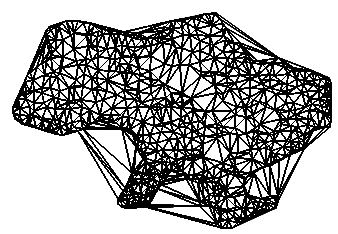
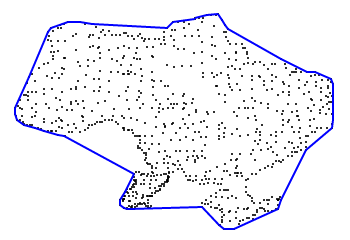
fix readme

diff --git a/debug/index.html b/debug/index.html
@@ -6,8 +6,8 @@
     <script src="../dist/hull.js"></script>
 </head>
 <body>
-    <canvas id="canv" width="400" height="600" style="border: 1px solid black; position: absolute; left: 0px; top: 0px;"></canvas>
-    <canvas id="canv1" width="400" height="600" style="border: 1px solid black; position: absolute; left: 0px; top: 0px;"></canvas>
+    <canvas id="canv" width="400" height="400" style="border: 1px solid black; position: absolute; left: 0px; top: 0px;"></canvas>
+    <canvas id="canv1" width="400" height="400" style="border: 1px solid black; position: absolute; left: 0px; top: 0px;"></canvas>
 
     <script>
     window.onload = function() {
@@ -23,85 +23,6 @@
             console.log('[' + e.offsetX + ', ' + e.offsetY + ']');
         }
 
-// vertices = [
-// [57, 270],
-// [122, 270],
-// [238, 269],
-// [235, 295],
-// [235, 330],
-// [195, 330],
-// [130, 311],
-// [75, 339],
-// [40, 326],
-// [40, 286]];
-
-// vertices = [
-//     [10, 116],
-//     [21, 131],
-//     [31, 54],
-//     [51, 43],
-//     [65, 58],
-//     [75, 95],
-//     [95, 70],
-//     [200, 122],
-//     [269, 130]
-// ];
-
-        // vertices = [
-        //     [5, 85],
-        //     [15, 90],
-        //     [30, 70],
-        //     [35, 130],
-        //     [40, 131],
-        //     [44, 66],
-        //     [48, 65],
-        //     [49, 38],
-        //     [50, 30],
-        //     [60, 61],
-        //     [110, 134],
-        //     [130, 132],
-        //     [140, 124],
-        //     [160, 154]];
-
-        // vertices = [
-        //     [10, 15],
-        //     [20, 20],
-        //     [10, 30],
-            
-        //     [40, 15],
-        //     [30, 20],
-        //     [40, 30],
-
-        //     // [60, 10],
-        //     // [50, 20],
-        //     // [60, 30]
-        // ];
-
-        // vertices = [
-        //     [26, 106],
-        //     [35, 110],
-        //     [45, 100],
-        //     [55, 129],
-        //     [65, 94],
-        //     [85, 120],
-        //     [95, 150],
-        //     [120, 192],
-        //     [150, 164]
-        // ];
-
-        // vertices = [
-        //     [140, 68],
-        //     [160, 32],
-        //     [175, 32],
-        //     [184, 30],
-        //     [230, 213],
-        //     [241, 223],
-        //     [242, 198],
-        //     [246, 220],
-        //     [248, 210],
-        //     [258, 210]     
-        // ];
-
         // draw all pixels
         ctx.fillStyle="black";
         for (var i = 0; i < vertices.length; i++) {
@@ -112,11 +33,9 @@
         }
 
         // get and draw hull  
-        console.time('hull');
-        var pxs = hull(vertices, 10);
-        console.timeEnd('hull');
+        var pxs = hull(vertices, 20);
         ctx.strokeStyle = "blue";
-        ctx.lineWidth = 1;
+        ctx.lineWidth = 2;
         ctx.beginPath();
         pxs.forEach(function(px) {
             ctx.lineTo(px[0], px[1]);
@@ -126,26 +45,25 @@
         ctx.stroke();
         ctx.closePath();
 
+        // ctx.strokeStyle = "blue";
         // ctx.lineWidth = 2;
         // ctx.beginPath();
-        // for (var i = 0; i < idxs.length-1; i++) {
-        //     var idx = idxs[i];
-        //     var nextIdx = idxs[i+1];
+        // for (var i = 0; i < pxs.length-1; i++) {
         //     if (i % 2 === 1 ) { continue; }
-        //     canvas_arrow(ctx, vertices[idx][0], vertices[idx][1], vertices[nextIdx][0], vertices[nextIdx][1]);
+        //     canvas_arrow(ctx, pxs[i][0], pxs[i][1], pxs[i+1][0], pxs[i+1][1]);
         // };
         // ctx.stroke();
         // ctx.closePath();
 
-        // function canvas_arrow(context, fromx, fromy, tox, toy){
-        //     var headlen = 10;   // length of head in pixels
-        //     var angle = Math.atan2(toy-fromy,tox-fromx);
-        //     context.moveTo(fromx, fromy);
-        //     context.lineTo(tox, toy);
-        //     context.lineTo(tox-headlen*Math.cos(angle-Math.PI/6),toy-headlen*Math.sin(angle-Math.PI/6));
-        //     context.moveTo(tox, toy);
-        //     context.lineTo(tox-headlen*Math.cos(angle+Math.PI/6),toy-headlen*Math.sin(angle+Math.PI/6));
-        // }
+        function canvas_arrow(context, fromx, fromy, tox, toy){
+            var headlen = 10;   // length of head in pixels
+            var angle = Math.atan2(toy-fromy,tox-fromx);
+            context.moveTo(fromx, fromy);
+            context.lineTo(tox, toy);
+            context.lineTo(tox-headlen*Math.cos(angle-Math.PI/6),toy-headlen*Math.sin(angle-Math.PI/6));
+            context.moveTo(tox, toy);
+            context.lineTo(tox-headlen*Math.cos(angle+Math.PI/6),toy-headlen*Math.sin(angle+Math.PI/6));
+        }
     }
     </script>
 </body>

diff --git a/src/hull.js b/src/hull.js
@@ -186,7 +186,7 @@ function _concave(convex, innerPointsTree, maxSqEdgeLen) {
 function hull(pointset, concavity) {
     var lower, upper, convex,
         innerPoints,
-        innerPointsTree, concave,
+        innerPointsTree,
         concavity = concavity || 10;
 
     if (pointset.length < 3) {
@@ -203,9 +203,8 @@ function hull(pointset, concavity) {
     });
     innerPointsTree = rbush(9, ['[0]', '[1]', '[0]', '[1]']);
     innerPointsTree.load(innerPoints);
-    concave = _concave(convex, innerPointsTree, Math.pow(concavity, 2));
-
-    return concave;
+    
+    return _concave(convex, innerPointsTree, Math.pow(concavity, 2));
 }
 
 var MAX_CONCAVE_ANGLE_COS = Math.cos(90 / (180 / Math.PI)); // angle = 90 deg

diff --git a/README.md b/README.md
@@ -7,7 +7,7 @@ Hull.js - JavaScript library that builds <a href="http://ubicomp.algoritmi.uminh
 
 ## Params
 * 1st param - array of coordinates in format: [[x1, y1], [x2, y2], ..., [xn, yn]];
-* 2nd param - tolerance. The value of the cutoff boundaries. Lesser tolerance - thinning shape. Too large tolerance - convex hull.
+* 2nd param - concavity. 1 - thin shape. Infinity - convex hull.
 
 ## How it works
 
@@ -19,32 +19,24 @@ Let's see step by step what happens when you call `hull()` function:
 
 <img src="https://raw.githubusercontent.com/AndreyGeonya/hull/master/readme-imgs/0.png" /></li>
 
-<li>Triangulates your shape via <a target="_blank" href="https://github.com/ironwallaby/delaunay">Delaunay triangulation library</a>:
+<li>Builds convex hull:
 
 <img src="https://raw.githubusercontent.com/AndreyGeonya/hull/master/readme-imgs/1.png" />
 
-<li>After triangulation it cuts edges according to your `tolerance` param. For example:
+<li>After that, the edges flex inward (according to `concavity` param). For example:
 
 <img src="https://raw.githubusercontent.com/AndreyGeonya/hull/master/readme-imgs/2_1.png" />
-`tolerance = 80`
+`concavity = 80`
 
 <img src="https://raw.githubusercontent.com/AndreyGeonya/hull/master/readme-imgs/2_2.png" />
-`tolerance = 40`
+`concavity = 40`
 
 <img src="https://raw.githubusercontent.com/AndreyGeonya/hull/master/readme-imgs/2_3.png" />
-`tolerance = 20`</li>
-
-<li>After that it finds boundary edges:
-
-<img src="https://raw.githubusercontent.com/AndreyGeonya/hull/master/readme-imgs/3.png" /></li>
-
-<li>And finaly it sorts boundary edges and returns hull of the shape:
-
-<img src="https://raw.githubusercontent.com/AndreyGeonya/hull/master/readme-imgs/4.png" /></li>
+`concavity = 20`</li>
 
 ## Examples
 
-You can see more examples <a href="https://github.com/AndreyGeonya/hull/tree/master/examples">here</a>. Just clone this repository and run them in your browser.
+TODO
 
 ## Development
 	npm install # install dependencies
@@ -56,4 +48,7 @@ If you want to get involved with Hull.js development, just use <a href="https://
 
 ## Changelog
 
-* 0.0.1 — 06.09.2014
+* 0.2.0 — 14.10.2014
+Second version inspired by <a href="http://www.it.uu.se/edu/course/homepage/projektTDB/ht13/project10/Project-10-report.pdf" target="_blank">this</a> article.
+* 0.1.0 — 06.09.2014
+First version based on Delaunay triangulation.
